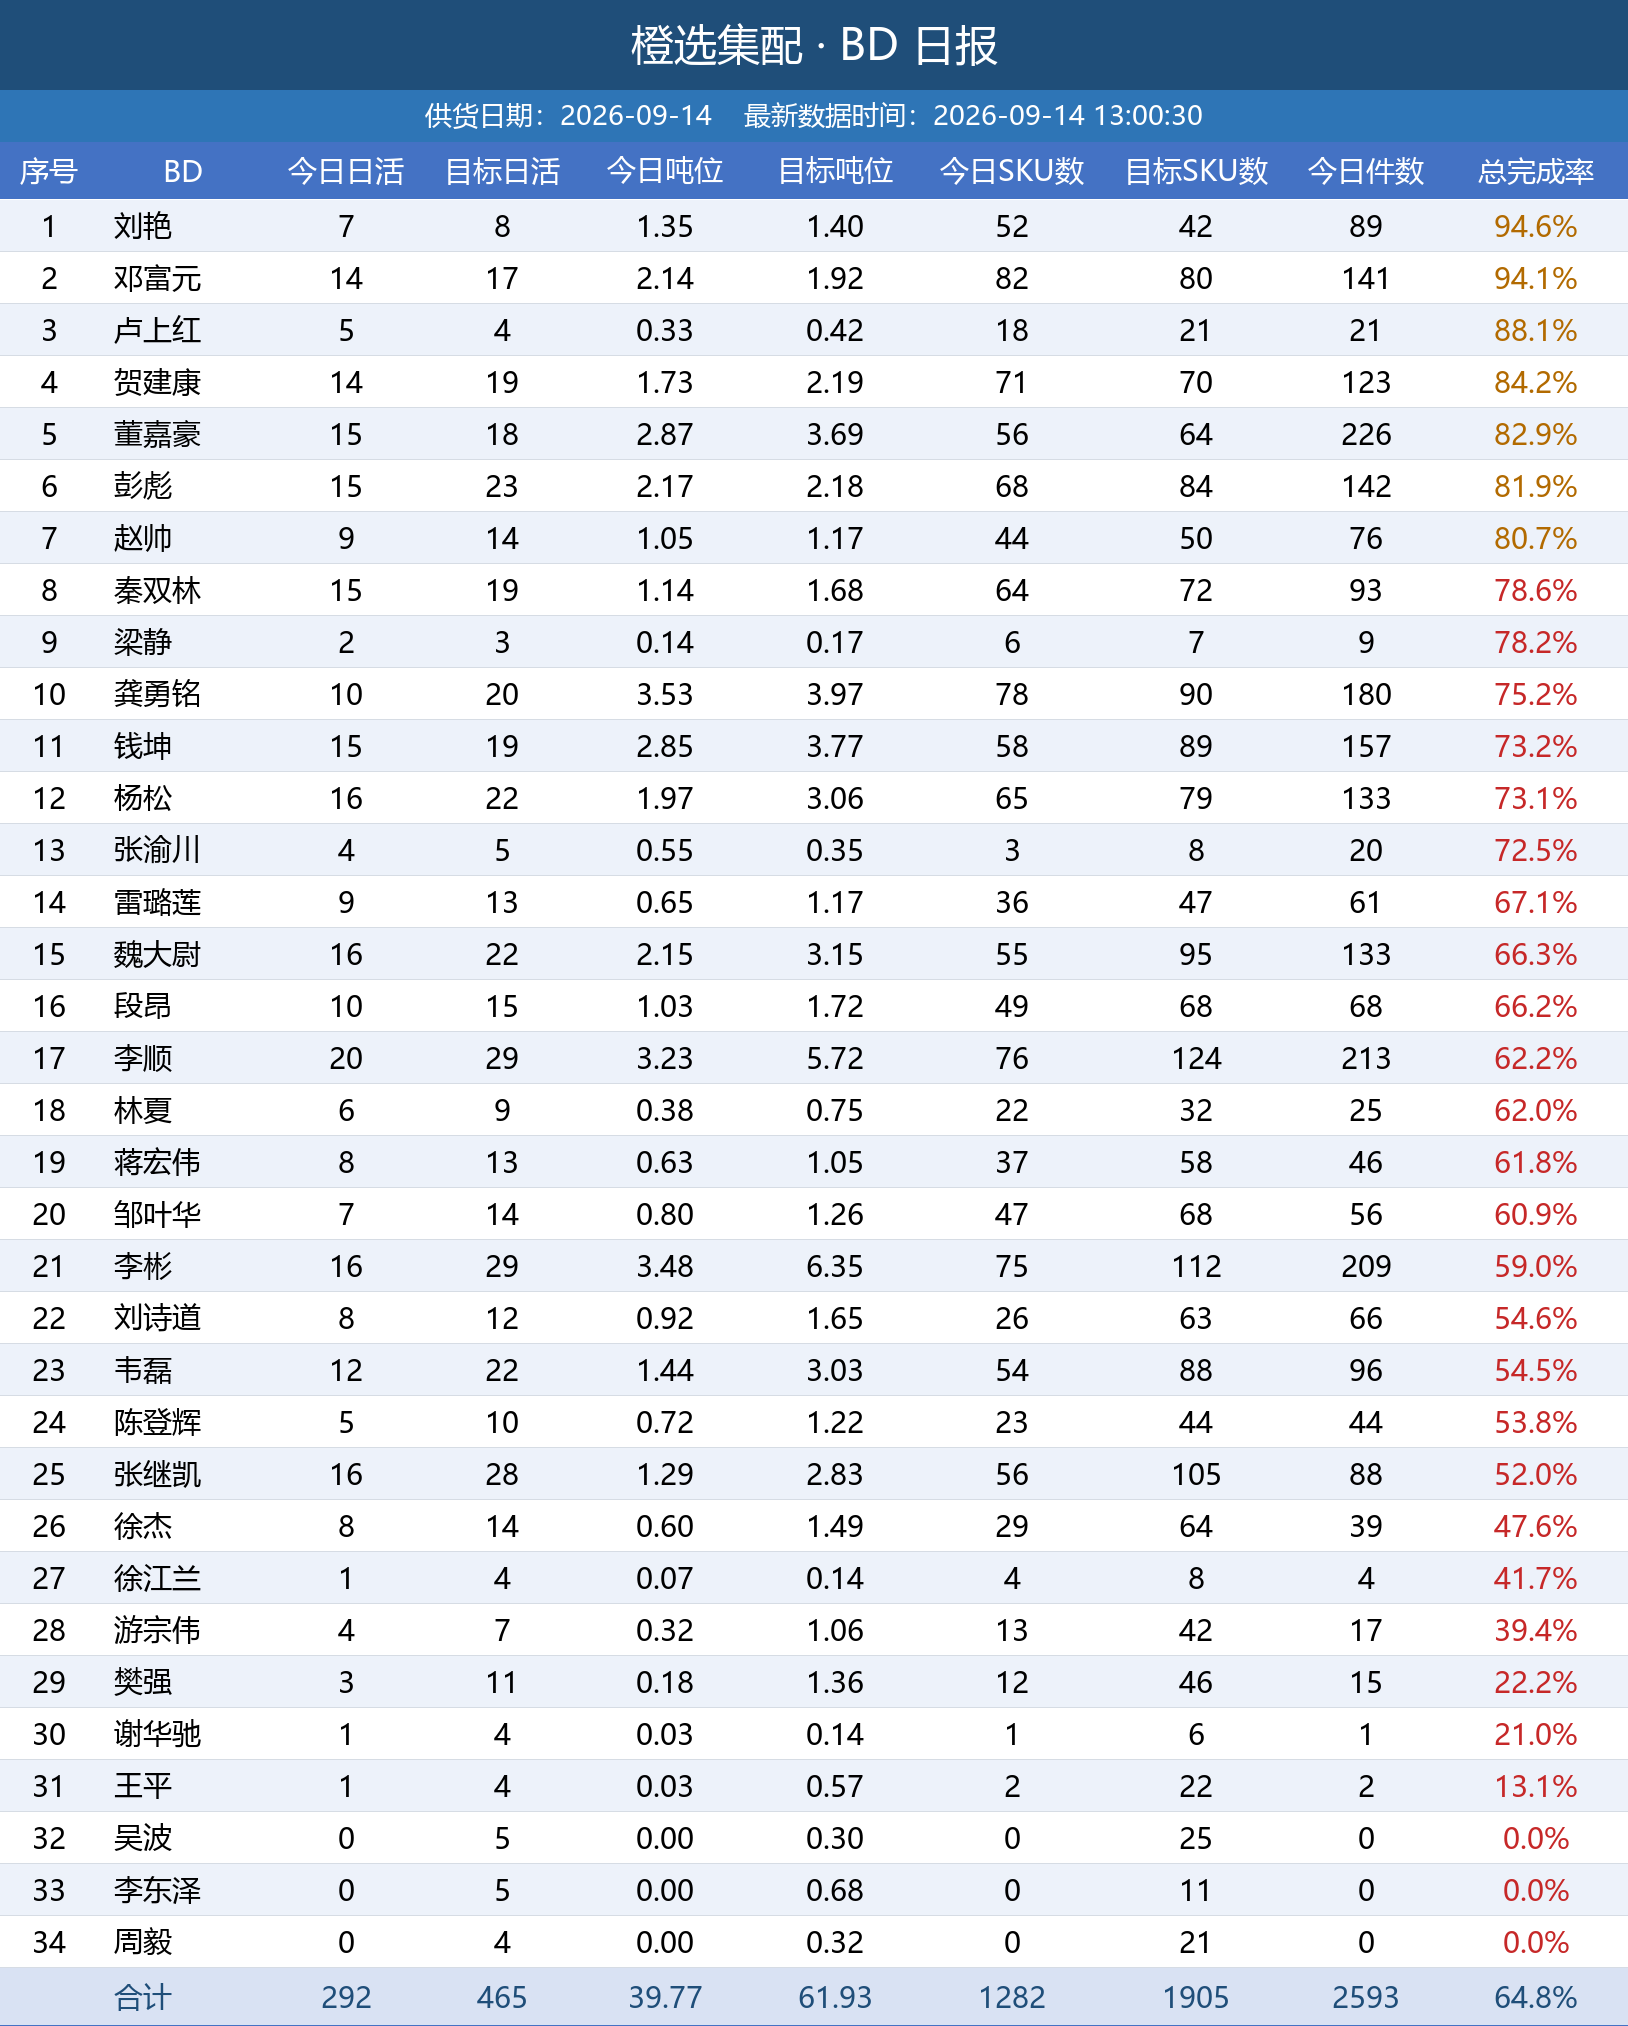
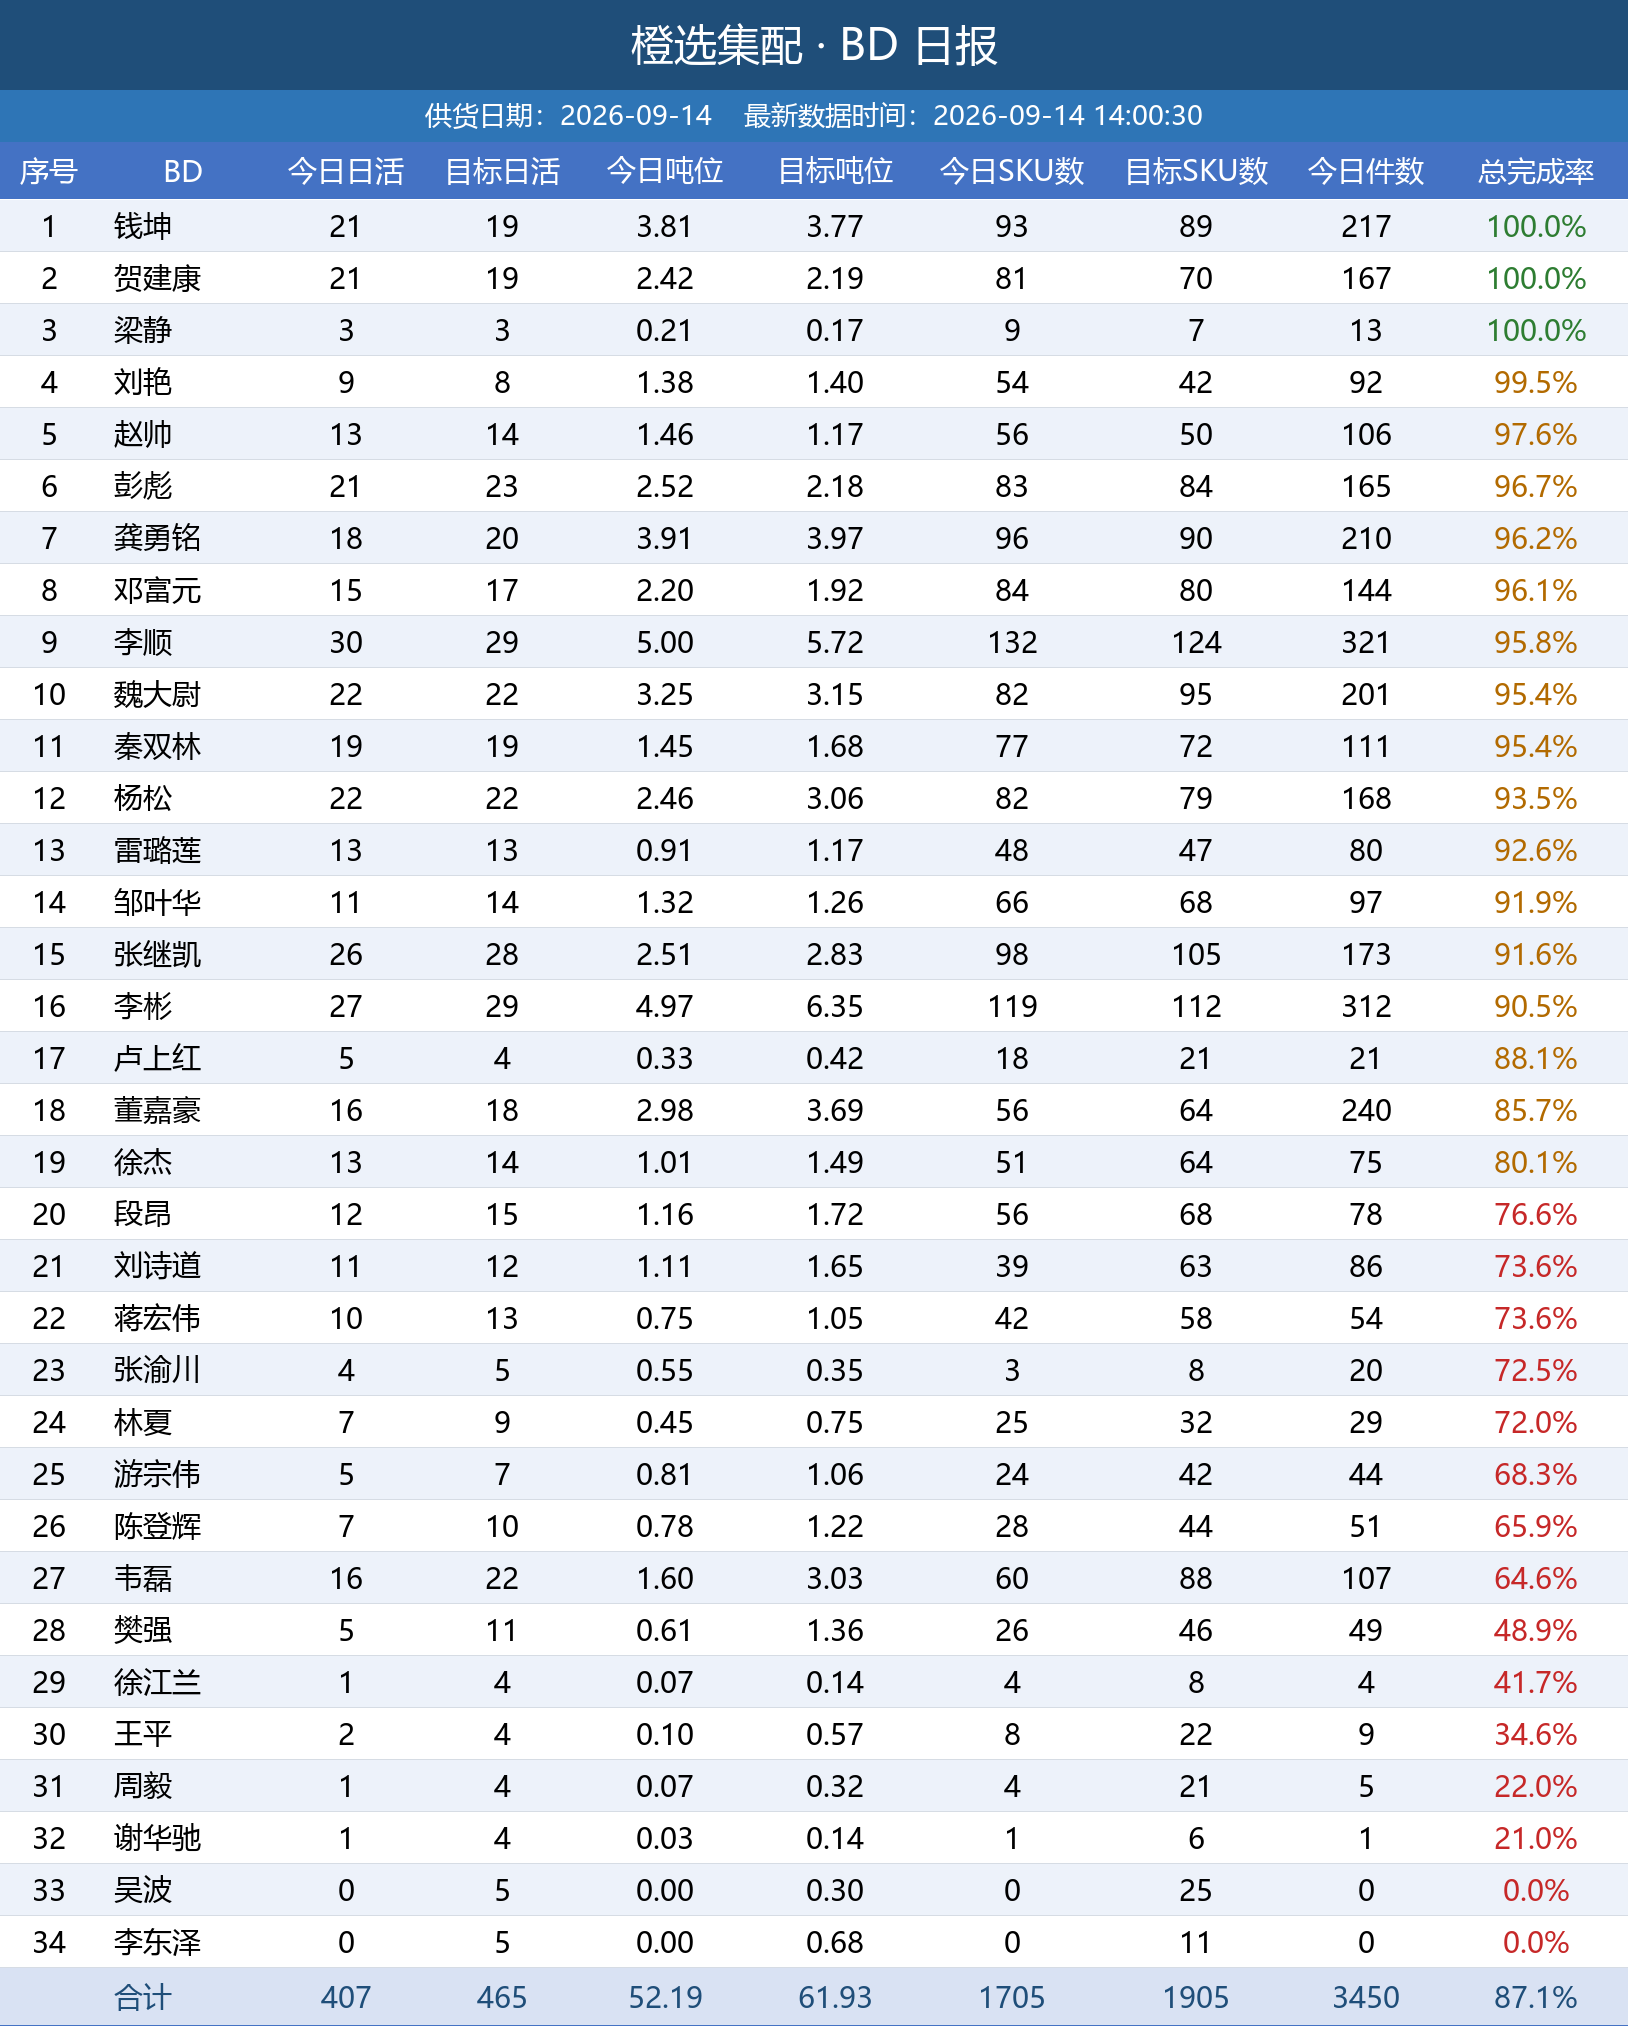
自动更新日报图片

diff --git a/index.html b/index.html
@@ -11,7 +11,7 @@ img { max-width: 100%; border: 1px solid #e5e5e5; margin-bottom: 24px; display: 
 </style>
 </head>
 <body>
-<h1>橙选集配日报图片（20260914_130034）</h1>
+<h1>橙选集配日报图片（20260914_140036）</h1>
 <img src="bd_latest.png" alt="BD 日报">
 <img src="wh_latest.png" alt="城市仓日报">
 <img src="zs_latest.png" alt="招商日报">
